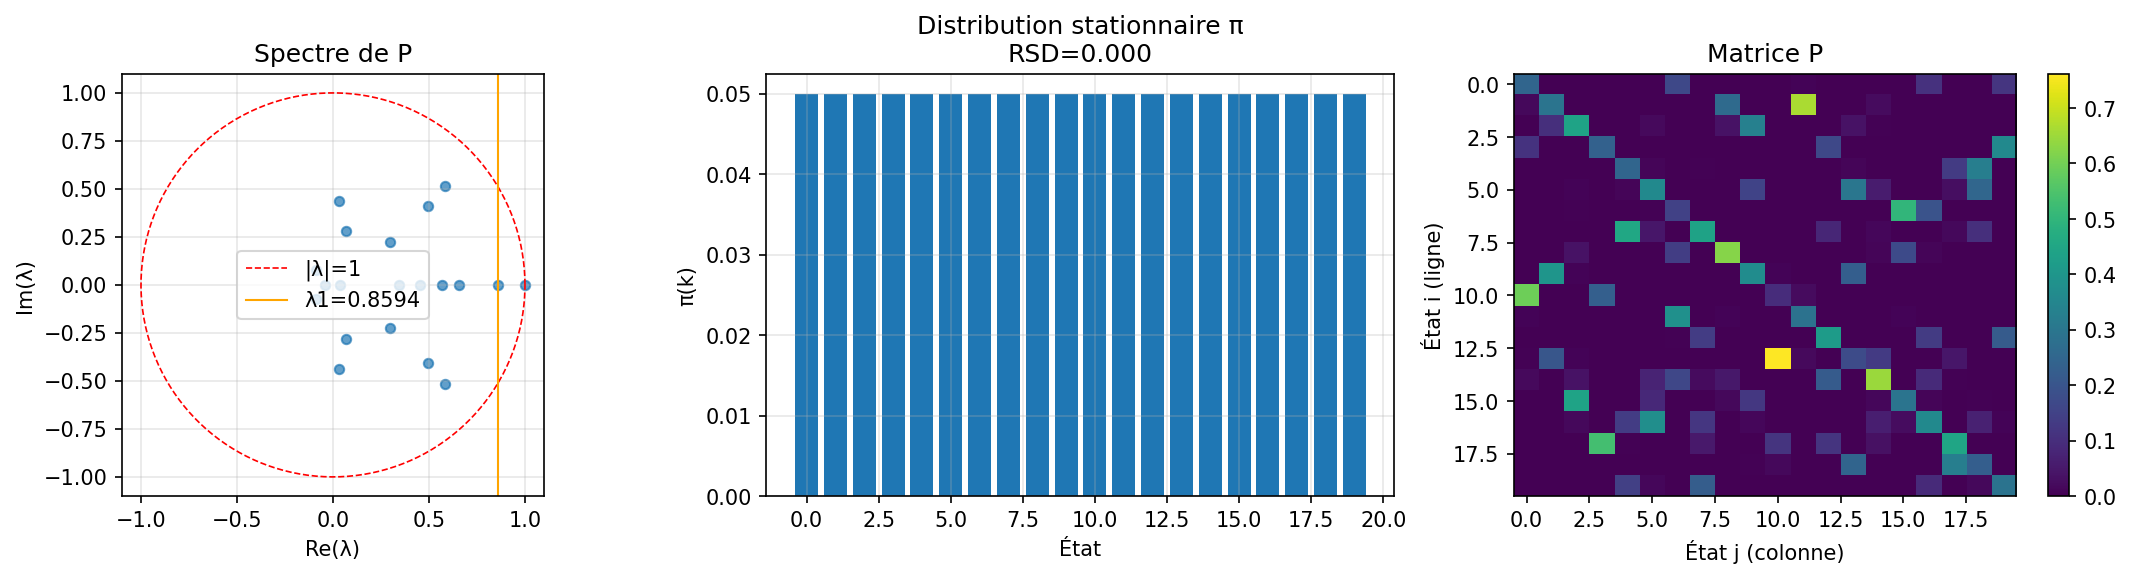
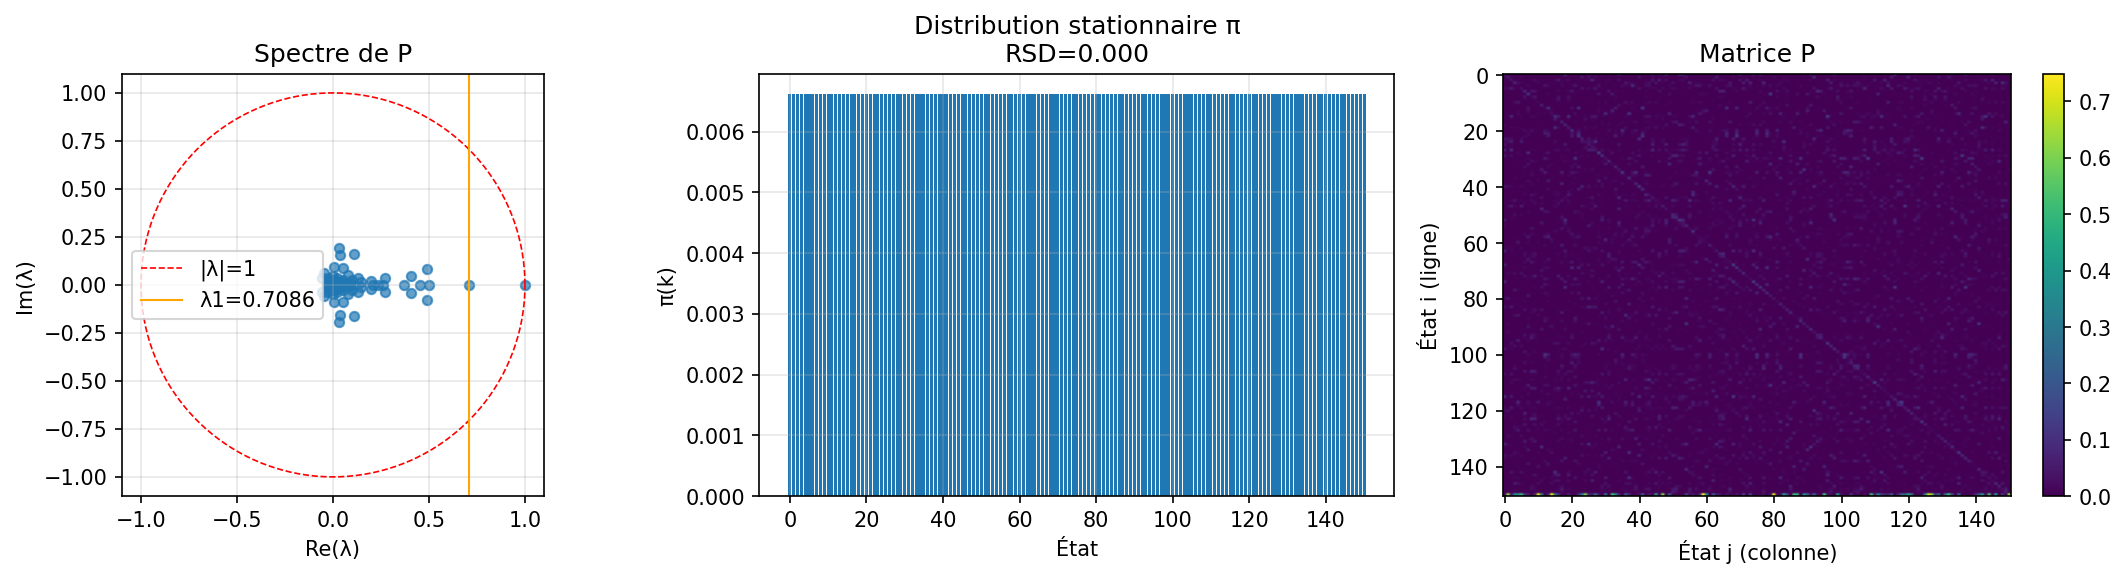
l'augmentation du nombre de partitions n'assure pas la precision du modèle

diff --git a/calibrage.py b/calibrage.py
@@ -21,7 +21,7 @@ for dossier in dossiers:
     if all(j in dossier.get('name', '') for j in
            [
             #    "gmm_full_10cells_vw0.5_NLT30_step10_dt2_tau157_start250",
-               "adaptive_y_spectral_top1_bot150_splitNone_modequantile_NLT30_step10_dt2_tau157_start250",
+               "spectral_100cells_vw0.5_k15_NLT30_step10_dt2_tau157_start250",
                ]):
         path = dossier['name']
 
@@ -35,8 +35,6 @@ def load_npy(fs, path, filename):
 def load_json(fs, path, filename):
     with fs.open(f"{path}/{filename}", "r") as f:
         return json.load(f)
-
-
 
 config  = load_json(fs, path, "stats.json")   # stats contient species_list
 species_list = config.get("species_list", ["small", "large"]) # tailles des particules(par défaut deux tailles)
@@ -295,7 +293,7 @@ axes[2].set_ylabel("État i (ligne)")
 
 plt.tight_layout()
 plt.savefig(f"{LOCAL_OUTPUT}/images/diagnostic_P.png", dpi=150, bbox_inches="tight")
-# plt.show()
+# #plt.show()
 
 # ── Simulation de convergence ────────────────────────────────────────────────
 fig, ax = plt.subplots(figsize=(8, 4))
@@ -318,7 +316,7 @@ ax.set_title("Convergence RSD Markov (log)")
 ax.legend()
 ax.grid(True, alpha=0.3)
 plt.savefig(f"{LOCAL_OUTPUT}/images/convergence_rsd.png", dpi=150, bbox_inches="tight")
-# plt.show()
+# #plt.show()
 
 
 # ── MAUVAIS (actuel) ────────────────────────────────────────────────────────
@@ -381,4 +379,126 @@ ax.grid(True, alpha=0.3)
 plt.tight_layout()
 plt.savefig(f"{LOCAL_OUTPUT}/images/rsd/rsd_concentration_{short_path}.png",
             dpi=150, bbox_inches="tight")
-# plt.show()
+# #plt.show()
+
+
+import numpy as np
+import matplotlib.pyplot as plt
+from scipy.optimize import curve_fit
+
+# ── 1. Préparation des données DEM et Markov sur toute la durée ─────────────
+row_start = np.searchsorted(species_data["small"]["times"], start)
+S_small_dem = species_data["small"]["S_matrix"][row_start:]
+S_large_dem = species_data["large"]["S_matrix"][row_start:]
+times_dem   = species_data["small"]["times"][row_start:]
+
+# RSD DEM (sur toute la durée disponible)
+rsd_dem_full = compute_rsd_concentration(S_small_dem, S_large_dem)
+
+# ── 2. Propagation Markov sur la même durée physique ────────────────────────
+# Nombre de pas Markov pour couvrir la durée DEM
+n_steps = len(times_dem) // tau 
+
+S_s = species_data["small"]["S_matrix"][row_start].astype(float)
+S_l = species_data["large"]["S_matrix"][row_start].astype(float)
+P_small = species_data["small"]["P"]
+P_large = species_data["large"]["P"]
+n_states = S_s.shape[0]
+
+# On stocke les trajectoires pour le calcul vectorisé du RSD
+S_s_traj = np.zeros((n_steps, n_states))
+S_l_traj = np.zeros((n_steps, n_states))
+S_s_traj[0] = S_s
+S_l_traj[0] = S_l
+
+for k in range(1, n_steps):
+    S_s_traj[k] = P_small.T @ S_s_traj[k-1]
+    S_l_traj[k] = P_large.T @ S_l_traj[k-1]
+
+rsd_markov_full = compute_rsd_concentration(S_s_traj, S_l_traj)
+
+# ⚠ IMPORTANT : L'équation de Zhou suppose que t=0 est le début du mélange.
+# On doit donc soustraire 'start' pour avoir le temps écoulé.
+t_dem_fit = times_dem - start
+t_markov_fit = np.arange(n_steps) * tau
+
+# ── 3. Modèle de régression de Zhou (Second-order regression) ───────────────
+def rsd_model(t, RSD_inf, RSD_0, tau_c):
+    # t est le temps écoulé depuis le début de l'observation
+    t_tau = t / tau_c
+    t_tau = np.clip(t_tau, -500, 500) # Éviter overflow dans l'exponentielle
+    return RSD_inf + (RSD_0 - RSD_inf) * (1 + t_tau) * np.exp(-t_tau)
+
+# Estimation initiale des paramètres (p0) pour aider l'optimiseur
+p0_dem = [rsd_dem_full[-1], rsd_dem_full[0], len(t_dem_fit)*0.1]
+p0_mc  = [rsd_markov_full[-1], rsd_markov_full[0], len(t_markov_fit)*0.1]
+
+# Ajustement pour la DEM
+try:
+    popt_dem, _ = curve_fit(rsd_model, t_dem_fit, rsd_dem_full, p0=p0_dem, maxfev=10000)
+    RSD_inf_dem, RSD_0_dem, tau_DEM = popt_dem
+    print(f"✅ Ajustement DEM réussi : τ_DEM = {tau_DEM:.2f} pas DEM")
+except Exception as e:
+    print("⚠ Ajustement DEM échoué, utilisation des valeurs par défaut.")
+    tau_DEM = p0_dem[2]
+
+# Ajustement pour le modèle Markov (non calibré, avec t_m = t_l)
+try:
+    popt_mc, _ = curve_fit(rsd_model, t_markov_fit, rsd_markov_full, p0=p0_mc, maxfev=10000)
+    RSD_inf_mc, RSD_0_mc, tau_MC = popt_mc
+    print(f"✅ Ajustement Markov (brut) réussi : τ_MC = {tau_MC:.2f} pas DEM")
+except Exception as e:
+    print("⚠ Ajustement Markov échoué, utilisation des valeurs par défaut.")
+    tau_MC = p0_mc[2]
+
+# ── 4. Recalibrage du pas de temps de Markov (Formule de Zhou) ──────────────
+# Formule : t_m = t_l * (tau_DEM / tau_MC)
+# Ici t_l est votre 'tau' actuel
+tau_calibrated = tau * (tau_DEM / tau_MC)
+print(f"🔄 Recalibrage : tau original (t_l) = {tau}, tau calibré (t_m) = {tau_calibrated:.2f}")
+
+# Le nouvel axe temporel écoulé pour Markov (on ne refait pas tourner la chaîne, 
+# on change juste l'échelle de temps physique associée à chaque pas)
+t_markov_calibrated_fit = np.arange(n_steps) * tau_calibrated
+
+# ── 5. Visualisation des courbes et des ajustements ─────────────────────────
+fig, ax = plt.subplots(figsize=(12, 6))
+
+# Pour le tracé, on remet le temps absolu (start + t) pour cohérence avec vos autres graphiques
+times_markov_calibrated_plot = start + t_markov_calibrated_fit
+times_markov_raw_plot = start + t_markov_fit
+
+# 1. Courbe DEM et son ajustement
+ax.plot(times_dem, rsd_dem_full, "k-", lw=2, label="DEM (Référence)")
+t_fit_dem_plot = np.linspace(t_dem_fit[0], t_dem_fit[-1], 200) + start
+ax.plot(t_fit_dem_plot, rsd_model(t_fit_dem_plot - start, *popt_dem), "k--", lw=1.5, 
+        label=f"Ajustement DEM ($\\tau_{{DEM}}$={tau_DEM:.1f})")
+
+# 2. Courbe Markov NON CALIBRÉE (t_m = t_l)
+ax.plot(times_markov_raw_plot, rsd_markov_full, "b-", lw=1.5, alpha=0.6, 
+        label=f"Markov non calibré ($t_m=t_l$={tau})")
+
+# 3. Courbe Markov CALIBRÉE (t_m recalibré)
+ax.plot(times_markov_calibrated_plot, rsd_markov_full, "r-", lw=2, 
+        label=f"Markov recalibré ($t_m$={tau_calibrated:.1f})")
+
+# 4. Ajustement sur le Markov recalibré (pour prouver que les tau correspondent)
+try:
+    popt_mc_cal, _ = curve_fit(rsd_model, t_markov_calibrated_fit, rsd_markov_full, p0=p0_mc, maxfev=10000)
+    t_fit_mc_plot = np.linspace(t_markov_calibrated_fit[0], t_markov_calibrated_fit[-1], 200) + start
+    ax.plot(t_fit_mc_plot, rsd_model(t_fit_mc_plot - start, *popt_mc_cal), "r--", lw=1.5,
+            label=f"Ajustement Markov recalibré ($\\tau_{{MC'}}$={popt_mc_cal[2]:.1f})")
+except:
+    pass
+
+ax.set_xlabel("Temps (indices DEM)", fontsize=12)
+ax.set_ylabel("RSD de concentration", fontsize=12)
+ax.set_title(f"Recalibrage du pas de temps Markov (Méthode de Zhou)\n{short_path}", fontsize=14)
+ax.legend(fontsize=10)
+ax.grid(True, alpha=0.3)
+plt.tight_layout()
+
+save_path = f"{LOCAL_OUTPUT}/images/rsd/recalibration_zhou_{short_path}.png"
+plt.savefig(save_path, dpi=150, bbox_inches="tight")
+#plt.show()
+print(f"💾 Figure de recalibrage sauvegardée dans {save_path}")
